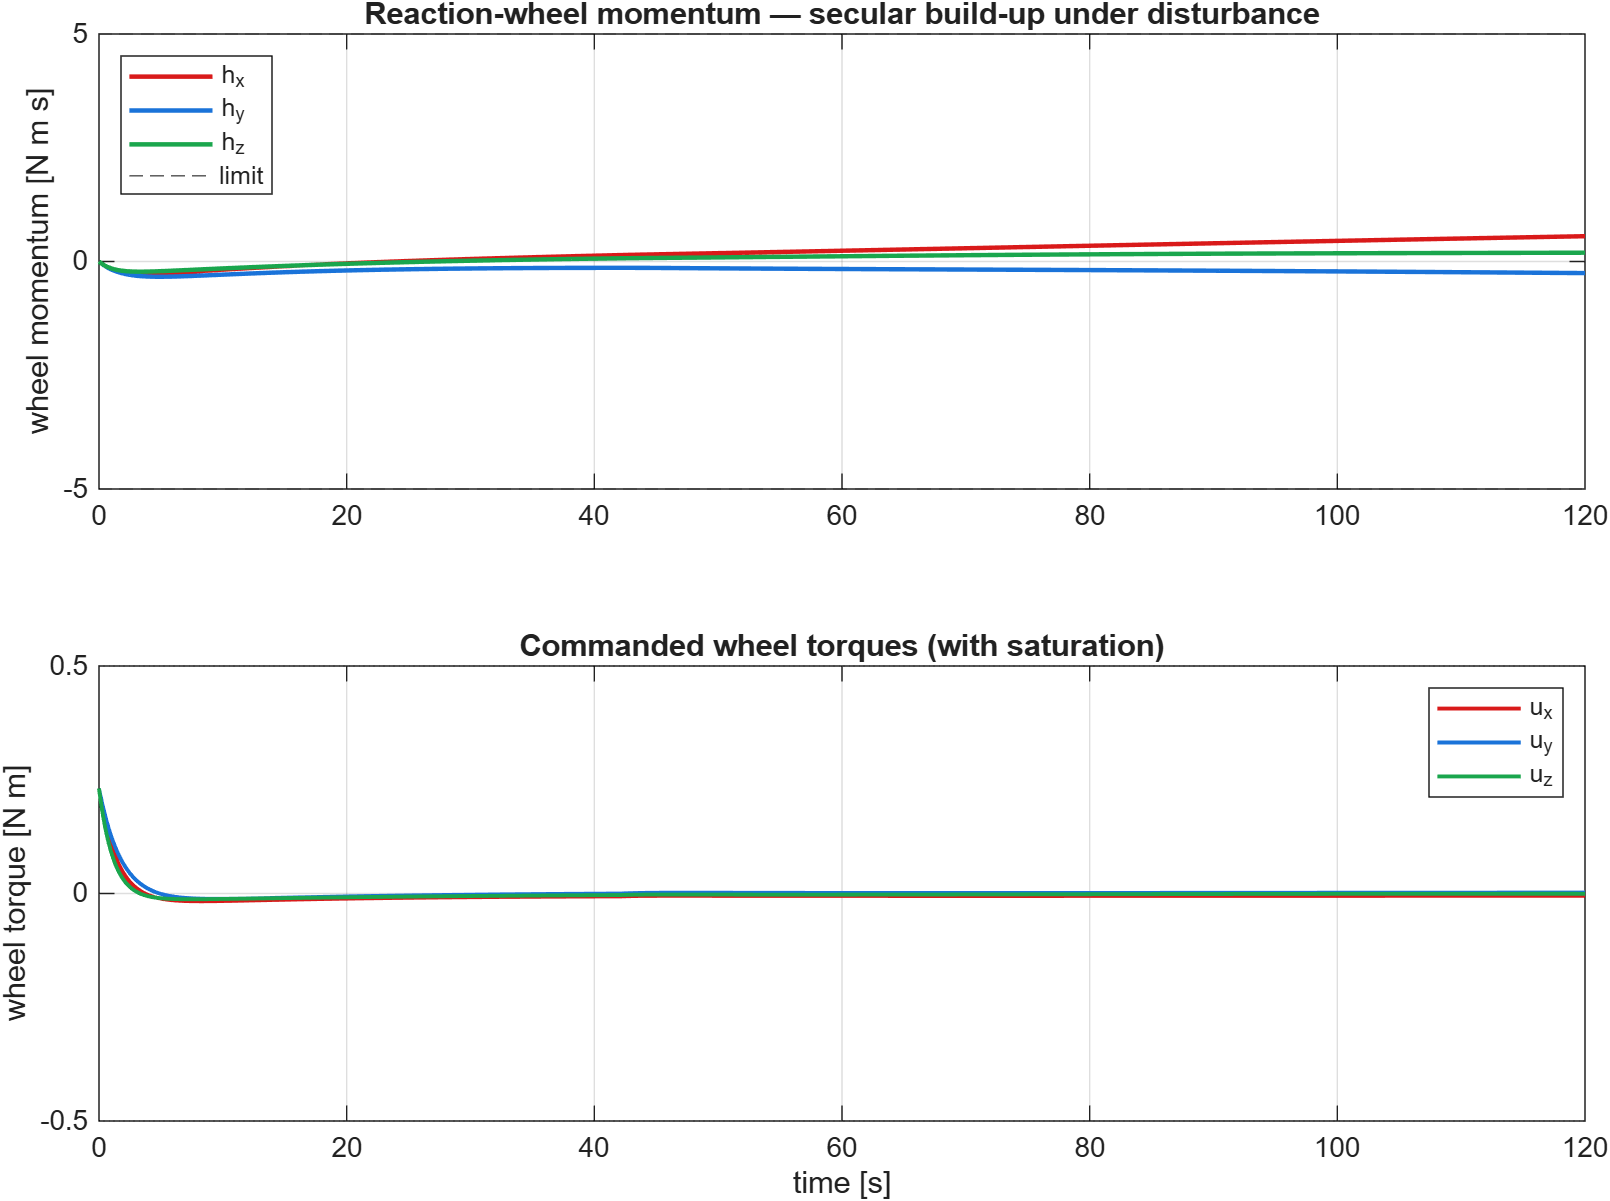
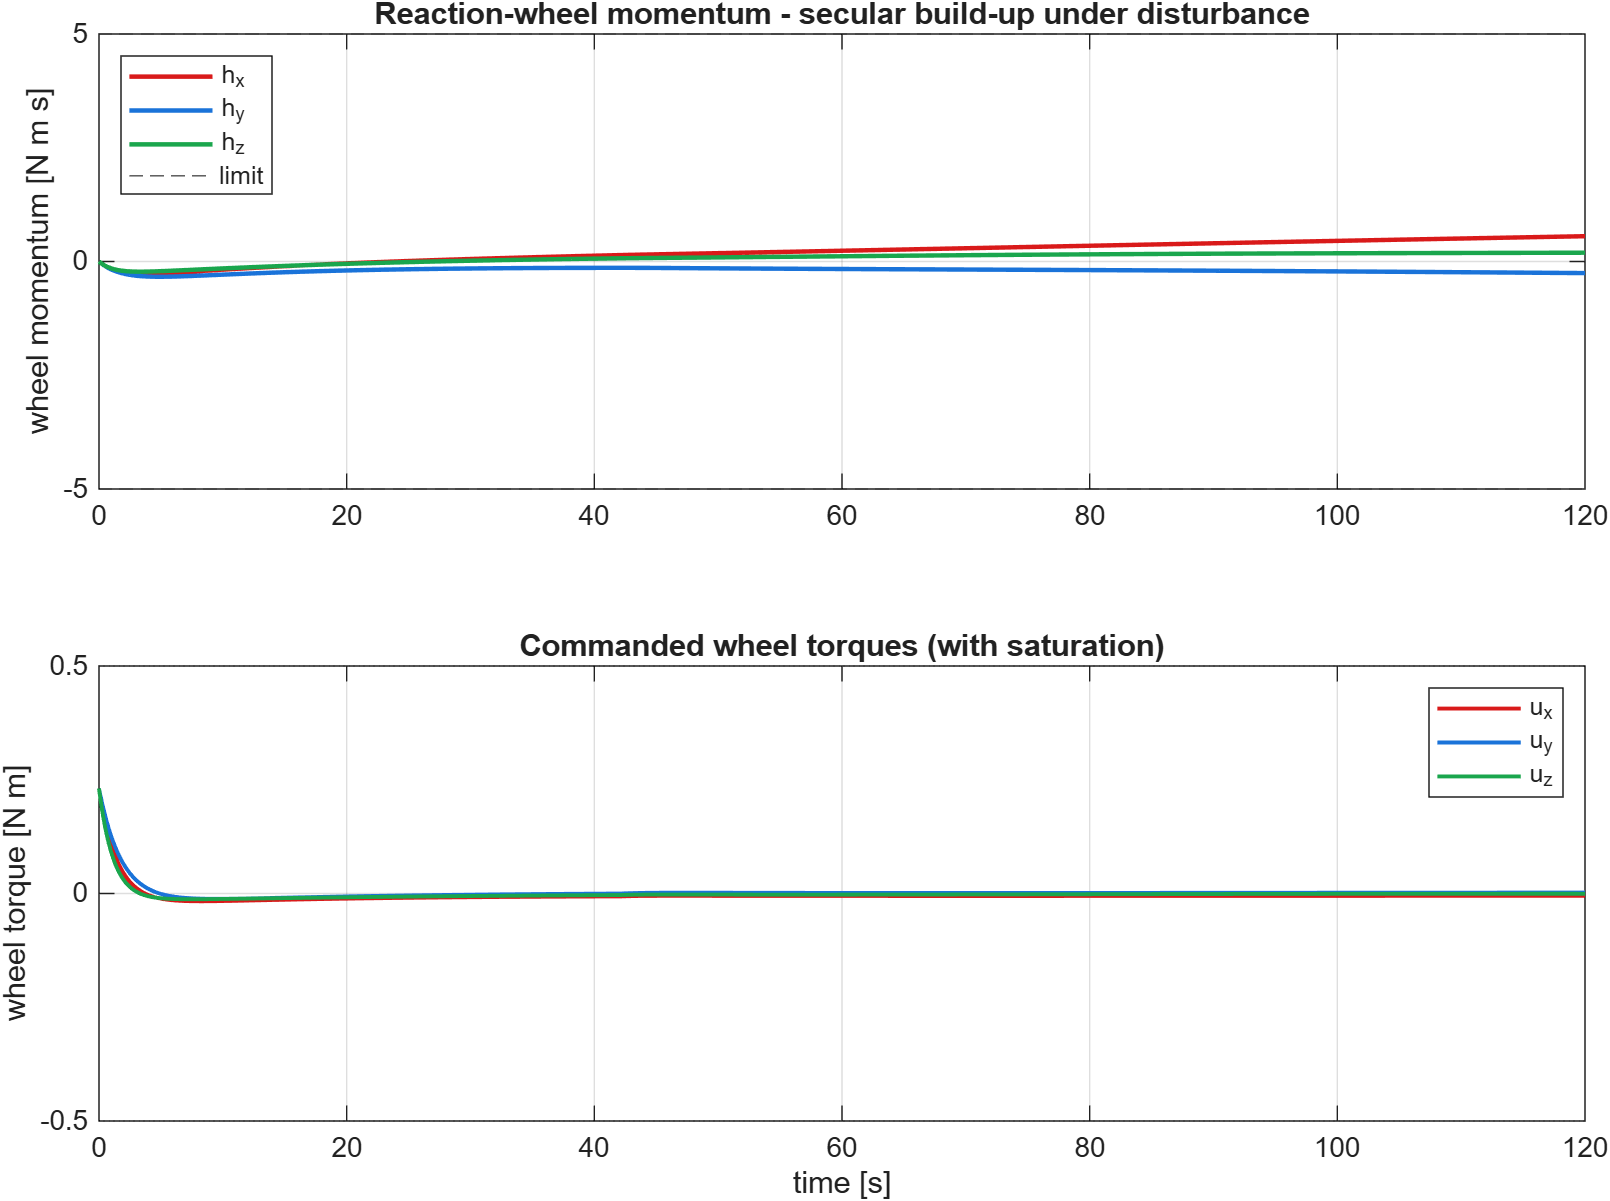
Fix docstring (PID) and damping label

Changed region(s): [[0.2174, 0.0, 0.8385, 0.0308]]

diff --git a/src/reaction_wheel_adcs.m b/src/reaction_wheel_adcs.m
@@ -4,7 +4,7 @@ function reaction_wheel_adcs()
 %
 %   Personal project (Ali Murtaza). A rigid satellite performs a large-
 %   angle (60 deg) rest-to-rest eigenaxis slew under quaternion-feedback
-%   PD control. Control torque is realised by three body-axis reaction
+%   PID control. Control torque is realised by three body-axis reaction
 %   wheels with torque and momentum limits; a small constant external
 %   disturbance drives a secular wheel-momentum build-up, illustrating
 %   why momentum management (desaturation) is needed.
@@ -28,7 +28,7 @@ tau_d = [5e-3; -2e-3; 1e-3];           % constant external disturbance [N m]
 % Quaternion PID:  u = Kp*qe_vec + Ki*int(qe_vec) - Kd*omega
 % The integral term cancels the steady-state pointing bias produced by the
 % constant external disturbance (pure PD would leave Kp*qe = -tau_d offset).
-Kp = 0.80; Ki = 0.040; Kd = 7.2;       % near-critical damping (zeta ~ 0.9)
+Kp = 0.80; Ki = 0.040; Kd = 7.2;       % well-damped: monotonic slew, no overshoot
 ei = [0;0;0]; ei_lim = 0.5;            % integral state + anti-windup clamp
 i_gate = deg2rad(5);                    % conditional integration band
 